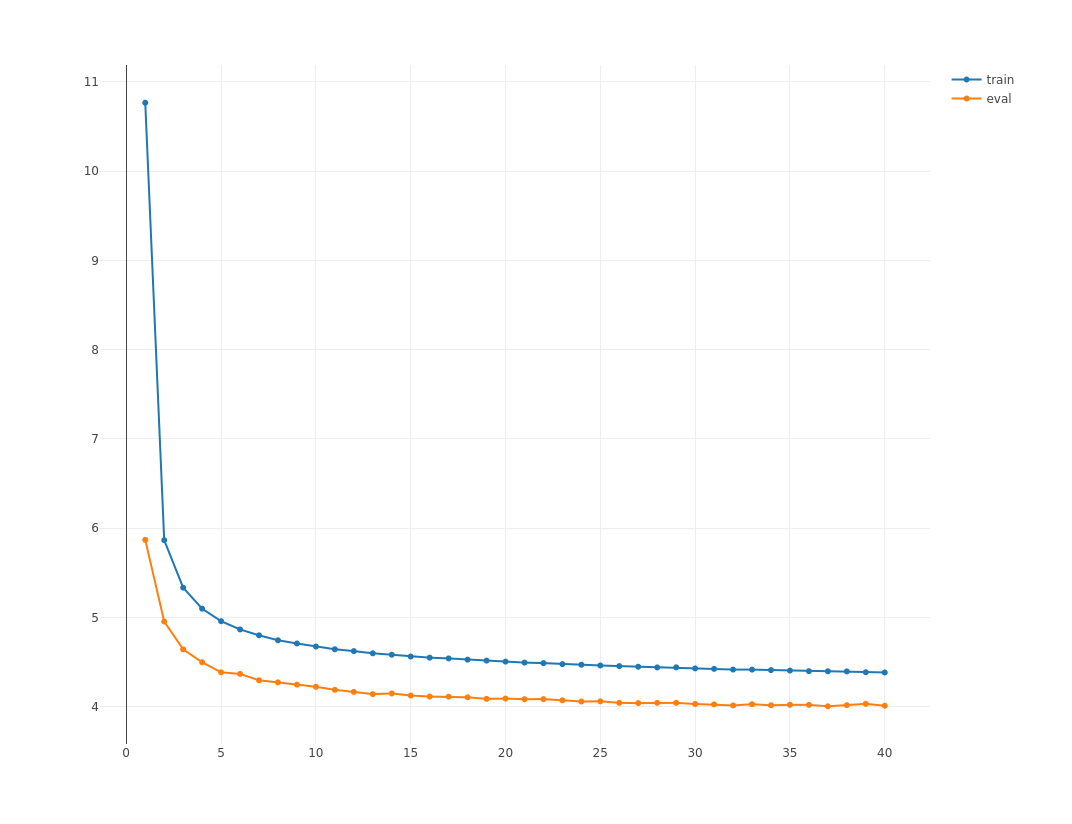
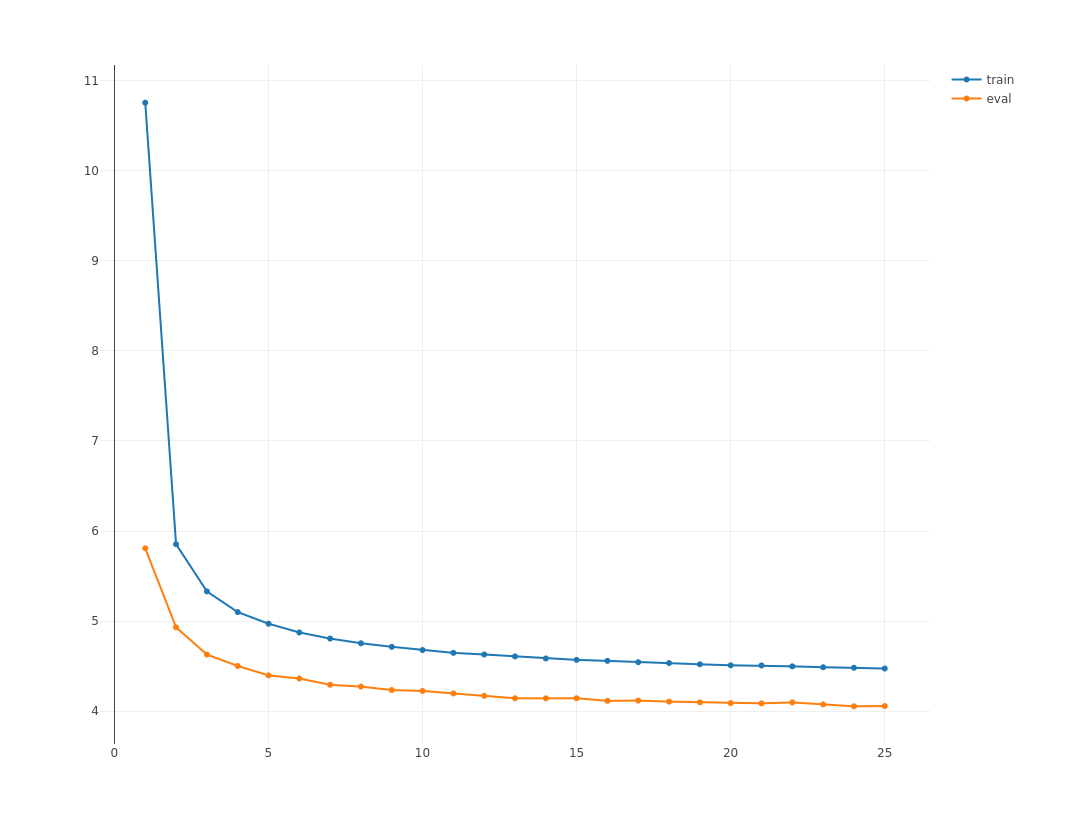
fine tune inference and notation

Changed region(s): [[0.1231, 0.6371, 0.8312, 0.8799], [0.1231, 0.1517, 0.1539, 0.4854], [0.3694, 0.9102, 0.4002, 0.9405]]

diff --git a/README.md b/README.md
@@ -76,18 +76,23 @@ LSTM model
 Below is the graph representation of a seq-to-one architecture with LSTM cells. Note that input data is of shape `seq_length X batch.size` while the output of the RNN operator is of shape `hidden.features X batch.size X seq_length`.
 
 ``` r
-graph_lstm <- rnn.graph(config = "seq-to-one",
-                        cell.type = "lstm", 
-                        num.rnn.layer = 1, 
-                        num.embed = 2, 
-                        num.hidden = 4, 
-                        num.label = 2, 
-                        input.size = vocab, 
-                        dropout = 0.5,
-                        ignore_label = -1,
-                        masking = T)
+bucket_list <- unique(c(train.data$bucket.names, eval.data$bucket.names))
 
-graph.viz(graph_lstm, type = "graph", direction = "LR", 
+sym_list <- sapply(bucket_list, function(seq) {
+  rnn.graph(config = "seq-to-one",
+            cell.type = "lstm", 
+            num.rnn.layer = 1, 
+            num.embed = 2, 
+            num.hidden = 4, 
+            num.label = 2, 
+            input.size = vocab, 
+            dropout = 0.5,
+            ignore_label = -1,
+            output_last_state = F, 
+            masking = T)
+})
+
+graph.viz(sym_list[[1]], type = "graph", direction = "LR", 
           graph.height.px = 50, graph.width.px = 800, shape=c(5, 64))
 ```
 
@@ -102,21 +107,21 @@ devices <- mx.gpu(0)
 initializer <- mx.init.Xavier(rnd_type = "gaussian", factor_type = "avg", magnitude = 3)
 
 optimizer <- mx.opt.create("rmsprop", learning.rate = 0.001, gamma1 = 0.95, gamma2 = 0.9, 
-                           wd = 1e-3, clip_gradient = NULL, rescale.grad=1/batch.size)
+                           wd = 1e-5, clip_gradient = 5, rescale.grad=1/batch.size)
 
 logger <- mx.metric.logger()
 epoch.end.callback <- mx.callback.log.train.metric(period = 1, logger = logger)
 batch.end.callback <- mx.callback.log.train.metric(period = 50)
 
-model <- mx.rnn.buckets(symbol = graph_lstm,
-                        train.data = train.data, eval.data = eval.data,
-                        num.round = 10, ctx = devices, verbose = TRUE,
-                        metric = mx.metric.accuracy, 
-                        initializer = initializer, optimizer = optimizer, 
-                        batch.end.callback = batch.end.callback, 
-                        epoch.end.callback = epoch.end.callback)
+model <- mx.model.buckets(symbol = sym_list,
+                          train.data = train.data, eval.data = eval.data,
+                          num.round = 8, ctx = devices, verbose = TRUE,
+                          metric = mx.metric.accuracy, optimizer = optimizer,  
+                          initializer = initializer,
+                          batch.end.callback = batch.end.callback, 
+                          epoch.end.callback = epoch.end.callback)
 
-mx.model.save(model, prefix = "models/model_sentiment_lstm", iteration = 10)
+mx.model.save(model, prefix = "models/model_sentiment_lstm", iteration = 8)
 
 p <- plot_ly(x = seq_len(length(logger$train)), y = logger$train, 
              type = "scatter", mode = "markers+lines", name = "train") %>% 
@@ -150,10 +155,8 @@ test.data <- mx.io.bucket.iter(buckets = corpus_bucketed_test$buckets, batch.siz
 ### LSTM
 
 ``` r
-model <- mx.model.load(prefix = "models/model_sentiment_lstm", iteration = 10)
-infer <- mx.rnn.infer.buckets(infer.data = test.data, 
-                              model = model,
-                              ctx = ctx)
+model <- mx.model.load(prefix = "models/model_sentiment_lstm", iteration = 8)
+infer <- mx.rnn.infer.buckets(infer.data = test.data, model = model, ctx = ctx)
 
 pred_raw <- t(as.array(infer))
 pred <- max.col(pred_raw, tie = "first") - 1
@@ -166,4 +169,4 @@ auc <- auc(roc)
 
 Accuracy: 87.1%
 
-AUC: 0.9399
+AUC: 0.9405

diff --git a/README_one_to_one.md b/README_one_to_one.md
@@ -88,7 +88,7 @@ devices <- mx.gpu(0)
 
 initializer <- mx.init.Xavier(rnd_type = "gaussian", factor_type = "avg", magnitude = 4)
 
-optimizer <- mx.opt.create("adadelta", rho = 0.90, eps = 1e-5, wd = 1e-8,
+optimizer <- mx.opt.create("adadelta", rho = 0.92, eps = 1e-5, wd = 1e-8,
                            clip_gradient = 5, rescale.grad = 1/batch.size)
 
 logger <- mx.metric.logger()
@@ -120,15 +120,15 @@ mx.metric.Perplexity <- mx.metric.custom_nd("Perplexity", function(label, pred) 
   return(Perplexity)
 })
 
-model <- mx.rnn.buckets(symbol = rnn_graph_one_one,
-                        train.data = train.data, eval.data = eval.data,
-                        num.round = 40, ctx = devices, verbose = TRUE,
-                        metric = mx.metric.Perplexity, 
-                        initializer = initializer, optimizer = optimizer, 
-                        batch.end.callback = batch.end.callback, 
-                        epoch.end.callback = epoch.end.callback)
+model <- mx.model.buckets(symbol = rnn_graph_one_one,
+                          train.data = train.data, eval.data = eval.data, 
+                          num.round = 20, ctx = devices, verbose = TRUE,
+                          metric = mx.metric.Perplexity, 
+                          initializer = initializer, optimizer = optimizer, 
+                          batch.end.callback = batch.end.callback, 
+                          epoch.end.callback = epoch.end.callback)
 
-mx.model.save(model, prefix = "models/model_one_to_one_lstm", iteration = 40)
+mx.model.save(model, prefix = "models/model_one_to_one_lstm", iteration = 20)
 
 p <- plot_ly(x = seq_len(length(logger$train)), y = logger$train, type = "scatter", mode = "markers+lines", name = "train") %>% 
   add_trace(y = logger$eval, type = "scatter", mode = "markers+lines", name = "eval")
@@ -164,7 +164,7 @@ infer.data <- mx.io.arrayiter(data = matrix(infer_split), label = matrix(infer_s
 Here the predictions are performed by picking the character whose associated probablility is the highest.
 
 ``` r
-model <- mx.model.load(prefix = "models/model_one_to_one_lstm", iteration = 40)
+model <- mx.model.load(prefix = "models/model_one_to_one_lstm", iteration = 20)
 
 internals <- model$symbol$get.internals()
 
@@ -208,7 +208,7 @@ predict_txt <- paste0(rev_dic[as.character(predict)], collapse = "")
 predict_txt_tot <- paste0(infer_raw, predict_txt, collapse = "")
 ```
 
-Generated sequence: The United States are started the problems that we can be the problems that we can be the problems that we can be the prob
+Generated sequence: The United States are seen the country that we can come that the country that we can come that the country that we can com
 
 Key ideas appear somewhat overemphasized.
 
@@ -263,6 +263,6 @@ predict_txt <- paste0(rev_dic[as.character(predict)], collapse = "")
 predict_txt_tot <- paste0(infer_raw, predict_txt, collapse = "")
 ```
 
-Generated sequence: The United States are and the result the enough being, ank not when we can imaged or roopias for our. She coutderes or the
+Generated sequence: The United States are the particular the American like thy Americans who had republes.So spondent through then sendeds, th
 
 Now we get a more alembicated political speech.
